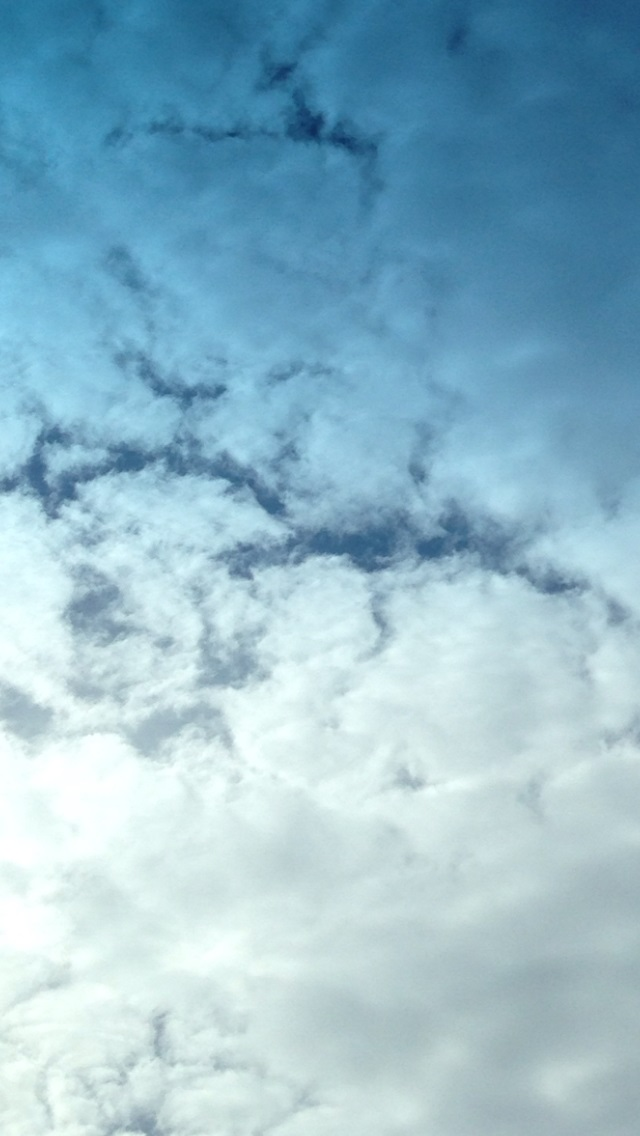
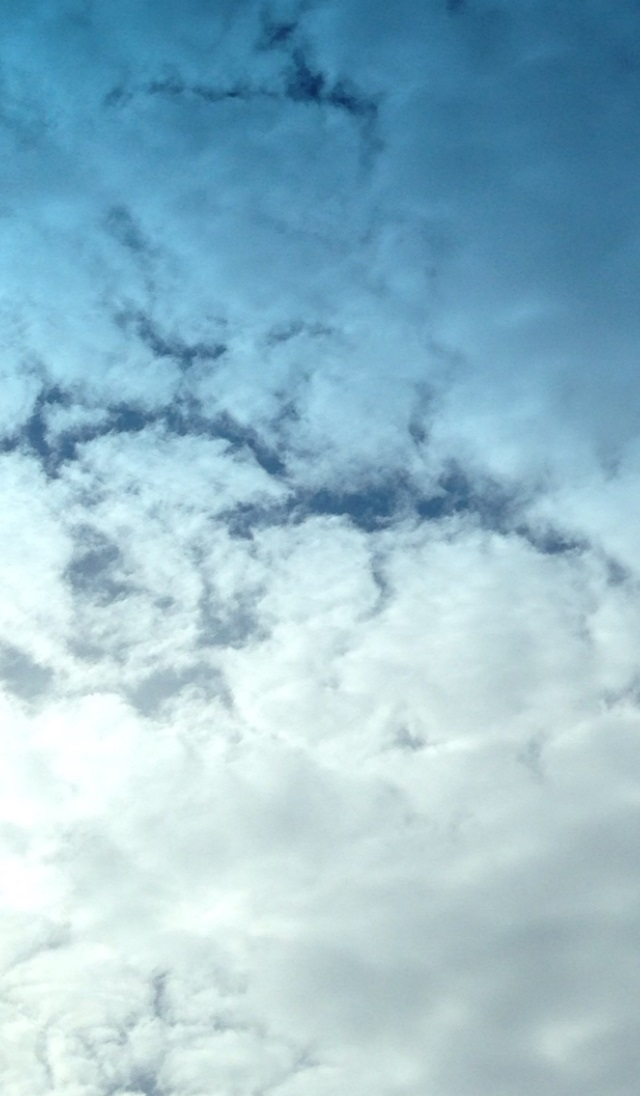
cropped image size to correct 640 x 1096

diff --git a/index.html b/index.html
@@ -5,7 +5,7 @@
   		<meta name="apple-mobile-web-app-capable" content="yes"/>
 		<script src="http://ajax.googleapis.com/ajax/libs/jquery/1.9.1/jquery.min.js"></script>
 		<script type ="text/javascript" src="javascript/script.js"></script>
-		<link rel="apple-touch-startup-image" sizes="640x1096" href="images/black.jpg">
+		<link rel="apple-touch-startup-image" sizes="640x1096" href="images/black.jpg"> <!-- 1096 + 40 for the status bar = 1136px for iphone 5 height //-->
 		<link rel="stylesheet" href="css/base.css">
 		<link rel="stylesheet" href="css/skeleton.css">
 		<link rel="stylesheet" href="css/layout.css">
